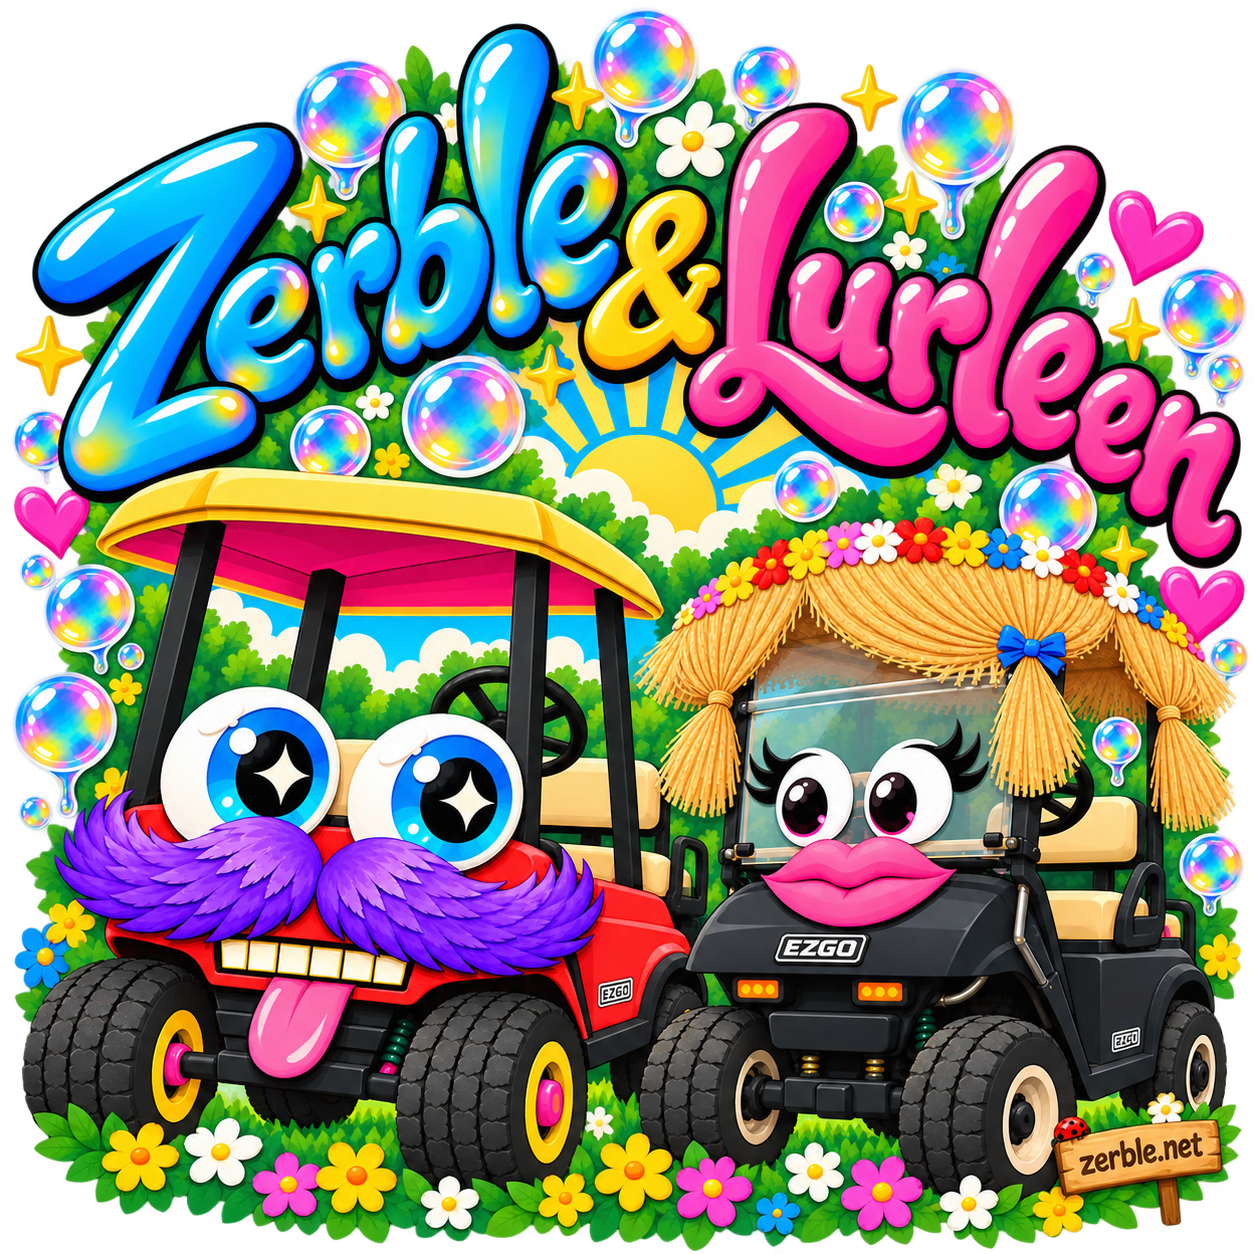
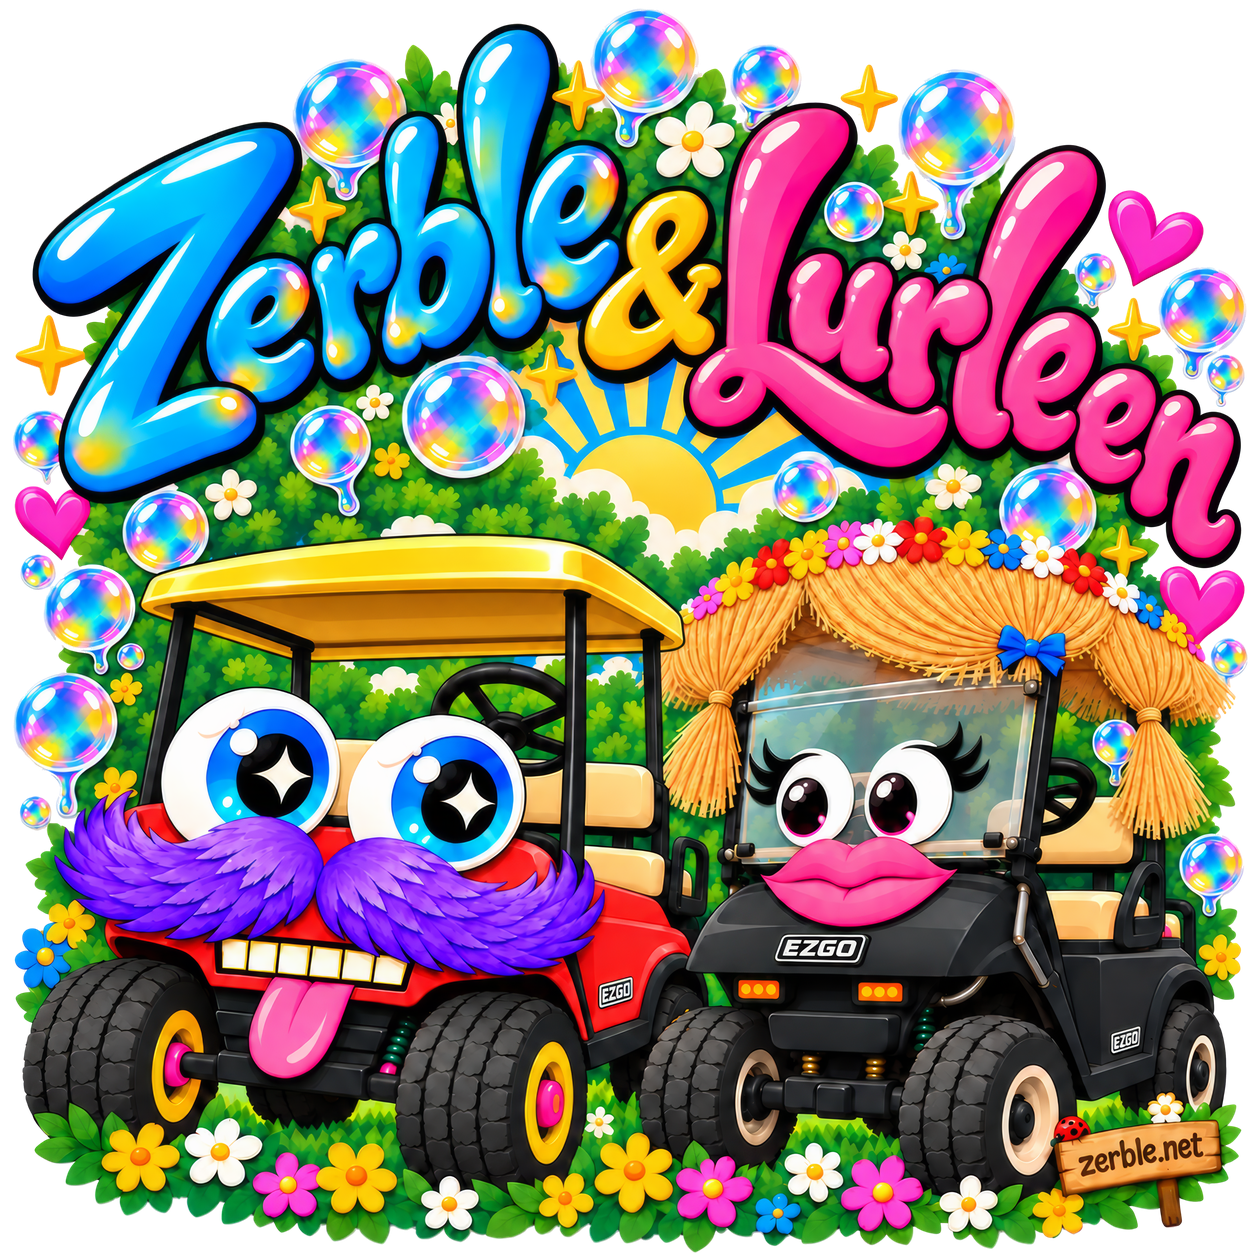
zerble & lurleen: the new tropical garden art, plus scripts for prepping sticker art
The section now shows the new Zerble & Lurleen sticker, with Zerble's yellow canopy, Lurleen's raffia hair and flower crown, and a garden full of bubbles, hearts, and flowers under a sunburst. Gigapixel upscaled the art 4x with its white background still on, and the new scripts/cutout-white-bg.py cut it out at full size before it went back down to 1254px for art/. The rebuild only touched the zerble-lurleen images, and the sitemap's lastmod moves to today.

scripts/cutout-white-bg.py flood-fills the white background in from the edges and takes the white back out of the edge pixels, so the art holds up on a dark shirt without a pale fringe. scripts/clean-alpha.py clears the haze Gigapixel leaves around a sticker that was upscaled while transparent, and makes the art fully solid. Both run with uv, and the README's new "Prepping sticker art" section explains when to use each one.

diff --git a/scripts/cutout-white-bg.py b/scripts/cutout-white-bg.py
@@ -1,0 +1,123 @@
+#!/usr/bin/env -S uv run --script
+# /// script
+# requires-python = ">=3.10"
+# dependencies = ["numpy", "pillow", "scipy"]
+# ///
+"""Cut the flat white background out of AI sticker art, at full resolution.
+
+    uv run scripts/cutout-white-bg.py "Sticker-4x.png" "Sticker-4x-nobg.png"
+
+Upscale first (with the white background still on), then cut. An upscaler that
+gets a transparent PNG turns the faint pixels around the art into haze, but one
+that gets a white background has no transparency to mangle, so the cut happens
+once, on the final pixels.
+
+AI cutout tools (Apple's built-in one, rembg, remove.bg) guess at a subject: on
+the Zerble & Lurleen art, Apple's kept the two carts and dropped the lettering,
+bubbles, and flowers. A flat white background doesn't need guessing:
+
+1. Background is near-white, unsaturated pixels flood-filled from the image's
+   border. That includes the faint grey shading the generator leaves in pockets
+   between elements. White art the flood can't reach (petals, eyes, teeth,
+   highlights, the glassy rims on bubbles) is protected and stays solid.
+2. Edge ring: art pixels within RING px of the background are treated as a mix
+   of the background colour and the deepest colour within twice that distance
+   (the black of an outline, the green of a leaf). Alpha is how far along that
+   mix each pixel sits, and the white is taken back out of its colour, so a dark
+   shirt doesn't show a pale fringe or a grey line along black outlines.
+3. Specks: anything visible but detached from the art and smaller than SPECK px
+   is removed, since that's what prints as glitchy particles.
+4. Pixels that end up fully transparent take the nearest art colour underneath,
+   so a resize that ignores transparency can't pull white back in.
+
+Sizes are tuned for a 1254px original and scale with the image. Check the result
+on a dark background before uploading: compositing it over black or navy shows
+any fringe or leftover speck right away.
+"""
+import sys
+
+import numpy as np
+from PIL import Image
+from scipy import ndimage as ndi
+
+Image.MAX_IMAGE_PIXELS = None
+T_BG, S_BG = 215, 14        # background: every channel >= T_BG, channels within S_BG of each other
+T_WHITE, S_WHITE = 244, 8   # near-white art, protected wherever the flood didn't reach it
+RING_AT_1254 = 1            # edge ring width at 1254px
+SPECK_AT_1254 = 6           # speck area at 1254px; a 9px sparkle there must survive
+
+
+def reachable(region, seeds):
+    lab, _ = ndi.label(region | seeds)
+    ids = np.unique(lab[seeds])
+    return np.isin(lab, ids[ids > 0])
+
+
+def main() -> int:
+    if len(sys.argv) != 3:
+        print(__doc__.split("\n\n")[1], file=sys.stderr)
+        return 2
+    src, dst = sys.argv[1], sys.argv[2]
+    im = Image.open(src)
+    rgb8 = np.asarray(im.convert("RGB"))
+    H, W_px = rgb8.shape[:2]
+    scale = max(H, W_px) / 1254
+    mn, mx = rgb8.min(axis=2).astype(np.int16), rgb8.max(axis=2).astype(np.int16)
+    border = np.zeros(mn.shape, bool)
+    border[0, :] = border[-1, :] = border[:, 0] = border[:, -1] = True
+
+    # 1. background
+    cand = (mn >= T_BG) & (mx - mn <= S_BG)
+    clear = reachable(cand, border & cand)
+    protected = (mn >= T_WHITE) & (mx - mn <= S_WHITE) & ~clear
+    rgb = rgb8.astype(np.float32)
+    W = rgb[clear].mean(axis=0, dtype=np.float64).astype(np.float32)   # float64: millions of pixels
+    dist = np.sqrt(((rgb - W) ** 2).sum(axis=2))
+    alpha = np.where(clear, 0.0, 1.0).astype(np.float32)
+    out = rgb.copy()
+
+    # 2. edge ring
+    ring = max(1, round(RING_AT_1254 * scale))
+    reach = 2 * ring
+    ey, ex = np.nonzero(~clear & ~protected & (ndi.distance_transform_edt(~clear) <= ring))
+    best_d = dist[ey, ex].copy()
+    best_y, best_x = ey.copy(), ex.copy()
+    for dy in range(-reach, reach + 1):
+        for dx in range(-reach, reach + 1):
+            if dy * dy + dx * dx > reach * reach:
+                continue
+            ny, nx = np.clip(ey + dy, 0, H - 1), np.clip(ex + dx, 0, W_px - 1)
+            d = np.where(clear[ny, nx], -1, dist[ny, nx])
+            better = d > best_d
+            best_d[better], best_y[better], best_x[better] = d[better], ny[better], nx[better]
+    u = W - rgb[best_y, best_x]
+    a = np.clip(((W - rgb[ey, ex]) * u).sum(axis=1) / np.maximum((u * u).sum(axis=1), 1), 0, 1)
+    a[a < 0.04] = 0
+    alpha[ey, ex] = a
+    keep = a > 0
+    c = rgb[ey[keep], ex[keep]]
+    out[ey[keep], ex[keep]] = np.clip((c - (1 - a[keep, None]) * W) / a[keep, None], 0, 255)
+
+    # 3. specks
+    lab, _ = ndi.label(alpha > 0)
+    sizes = np.bincount(lab.ravel())
+    speck = sizes < SPECK_AT_1254 * scale * scale
+    speck[0] = False
+    alpha[speck[lab]] = 0
+
+    # 4. colour under transparent pixels
+    art = alpha > 0
+    _, (iy, ix) = ndi.distance_transform_edt(~art, return_indices=True)
+    cy, cx = np.nonzero(~art)
+    out[cy, cx] = out[iy[cy, cx], ix[cy, cx]]
+
+    rgba = np.dstack([out, alpha * 255]).round().astype(np.uint8)
+    Image.fromarray(rgba, "RGBA").save(dst, dpi=im.info.get("dpi", (300, 300)), compress_level=9)
+    pieces = int((sizes[1:] >= SPECK_AT_1254 * scale * scale).sum())
+    print(f"{dst}: background {W.round(1)}, {(alpha == 0).mean():.1%} transparent, "
+          f"{pieces} visible pieces, {int(speck.sum())} specks removed")
+    return 0
+
+
+if __name__ == "__main__":
+    sys.exit(main())

diff --git a/scripts/clean-alpha.py b/scripts/clean-alpha.py
@@ -1,0 +1,104 @@
+#!/usr/bin/env -S uv run --script
+# /// script
+# requires-python = ">=3.10"
+# dependencies = ["numpy", "pillow", "scipy"]
+# ///
+"""Clean the haze an AI upscaler leaves in a transparent sticker PNG.
+
+    uv run scripts/clean-alpha.py "Sticker-4x.png" "Sticker-4x-clean.png" [--soft]
+
+Upscaling a transparent PNG (Gigapixel, at least) spreads the faint pixels around
+the art into a haze that covers 4 to 15% of the canvas, and Redbubble can print
+that haze as glitchy particles. The art itself usually comes back 94 to 99%
+opaque rather than solid, and its edges fade out across a wide soft band. This
+writes a cleaned copy and leaves the original alone.
+
+Pick the mode by the art:
+
+  default   Hard-edged art, like the pixel sticker. Anything more than EDGE_PX
+            from solid art is cleared, and alpha is levelled so LO and below
+            becomes 0, HI and above becomes 255, and the edge in between is
+            stretched to stay crisp.
+  --soft    Illustrations with translucent sparkles, glows, or glass. Faint
+            pixels only survive if they connect to solid art through pixels of
+            at least LO, so a soft sparkle stays whole while loose haze goes.
+            Below LO becomes 0, HI and above becomes 255, and the values in
+            between are left as they are.
+
+Both modes then:
+
+- drop solid specks smaller than SPECK px that nothing connects to,
+- make everything more than INTERIOR px inside the solid art fully solid (holes
+  meant to be see-through, like the windows under a cart's canopy, are
+  transparent, so the art around them stays within INTERIOR px and isn't
+  touched), and
+- give fully transparent pixels the nearest art colour underneath, so a resize
+  that ignores transparency can't pull noise or dark fringes back in.
+
+Sizes marked _AT_1254 are tuned for a 1254px original and scale with the image.
+Check the cleaned copy against the original before uploading, especially any
+tiny sparkle that sits apart from the rest of the art.
+"""
+import sys
+
+import numpy as np
+from PIL import Image
+from scipy import ndimage as ndi
+
+Image.MAX_IMAGE_PIXELS = None
+LO, HI = 24, 240           # alpha below LO is haze; HI and above is meant to be solid
+EDGE_PX_AT_1254 = 0.75     # default mode: how far past solid art the edge may reach
+INTERIOR_AT_1254 = 3       # deeper than this inside solid art becomes fully solid
+SPECK_AT_1254 = 6          # speck area at 1254px; a 9px sparkle there must survive
+
+
+def main() -> int:
+    args = [a for a in sys.argv[1:] if not a.startswith("--")]
+    soft = "--soft" in sys.argv[1:]
+    if len(args) != 2:
+        print(__doc__.split("\n\n")[1], file=sys.stderr)
+        return 2
+    src, dst = args
+    im = Image.open(src)
+    a = np.array(im.convert("RGBA"))
+    al = a[..., 3].astype(np.float32)
+    scale = max(al.shape) / 1254
+
+    lab, _ = ndi.label(al >= 128)
+    sizes = np.bincount(lab.ravel())
+    keep = sizes >= SPECK_AT_1254 * scale * scale
+    keep[0] = False
+    solid = keep[lab]
+    specks = int((sizes[1:] < SPECK_AT_1254 * scale * scale).sum())
+
+    if soft:
+        lab, _ = ndi.label(al >= LO, structure=np.ones((3, 3)))
+        seeds = np.unique(lab[solid])
+        attached = np.isin(lab, seeds[seeds > 0])
+        new_al = np.where(al >= HI, 255, al)
+        new_al[~attached | (al < LO)] = 0
+    else:
+        near = ndi.distance_transform_edt(~solid) <= max(1, EDGE_PX_AT_1254 * scale)
+        new_al = np.clip((al - LO) / (HI - LO) * 255, 0, 255)
+        new_al[~near] = 0
+
+    interior = ndi.distance_transform_edt(solid) > INTERIOR_AT_1254 * scale
+    filled = int(((new_al < 255) & interior).sum())
+    new_al[interior] = 255
+    new_al = np.rint(new_al).astype(np.uint8)
+
+    clear = new_al == 0
+    _, (iy, ix) = ndi.distance_transform_edt(~solid, return_indices=True)
+    rgb = a[..., :3]
+    rgb[clear] = rgb[iy[clear], ix[clear]]
+    a[..., 3] = new_al
+
+    Image.fromarray(a, "RGBA").save(dst, dpi=im.info.get("dpi", (300, 300)), compress_level=9)
+    h = np.bincount(new_al.ravel(), minlength=256)
+    print(f"{dst}{' (soft)' if soft else ''}: {h[0] / new_al.size:.1%} transparent, "
+          f"{h[255] / new_al.size:.1%} solid, {specks} specks dropped, {filled} interior px made solid")
+    return 0
+
+
+if __name__ == "__main__":
+    sys.exit(main())

diff --git a/README.md b/README.md
@@ -44,6 +44,21 @@ The script rebuilds `assets/img/` from the originals in `art/`, writing a WebP a
 
 The hero layers get two extra steps. The script clears the faint haze that background removal left around them (anything under 6% opacity, which can't be seen on the page but cost about 15% of each file), and it writes an AVIF at each width alongside the WebP. Their `<picture>` lists the AVIF first, and the hero preload points at the cart's AVIF, so if the cart's format or widths ever change, change the preload with it or the cart downloads twice. Together with capping the two back layers at 780px wide, that took the hero from about 560 KB to about 220 KB on a retina screen.
 
+## Prepping sticker art
+
+Two scripts in `scripts/` clean up the AI-generated stickers before they go to Redbubble or into `art/`. Both run through `uv` (`brew install uv`), which fetches numpy, Pillow, and SciPy the first time, and both write their result to the path you give them and leave the original alone.
+
+```bash
+uv run scripts/cutout-white-bg.py "Sticker-4x.png" "Sticker-4x-nobg.png"
+uv run scripts/clean-alpha.py "Sticker-4x.png" "Sticker-4x-clean.png" --soft
+```
+
+`cutout-white-bg.py` takes the white background off art that came with one. Upscale in Gigapixel first with the white still on, then cut the upscaled file, so Gigapixel never sees any transparency and the cut works on the final pixels. The script flood-fills the white in from the edges of the image. AI cutout tools guess at a subject (Apple's built-in one kept the two carts from the Zerble & Lurleen art and threw out the lettering, bubbles, and flowers), while this keeps white petals, eyes, and the glassy rims on bubbles where they belong.
+
+`clean-alpha.py` fixes art that was upscaled while it was already transparent. Gigapixel spreads the faint pixels around the art into a haze over about 4 to 15% of the canvas (Redbubble can print that haze as glitchy particles) and brings the art itself back 94 to 99% opaque instead of solid. The script clears the haze and loose specks and makes the art solid. Leave off `--soft` for hard-edged art like the pixel sticker, and add it for illustrations with soft sparkles or glows, which it keeps whole.
+
+Check either result over a dark background before uploading, since a fringe or a leftover speck shows up there first. To use a cleaned sticker on the site, scale it down to 1254px, save it to `art/` as lossless WebP, and run the image script.
+
 ## The hero parallax
 
 The hero art is three transparent layers cut from the same sticker and stacked in one grid cell: the bubble arch at the back, the corner splashes in the middle, and the cart up front (`art/sticker-hero-layer-*.webp`, built to `zerble-hero-arch`, `-corners`, and `-cart`). All three share one 1402×1122 canvas, so a replacement layer has to keep that size and registration or the stack won't line up.
